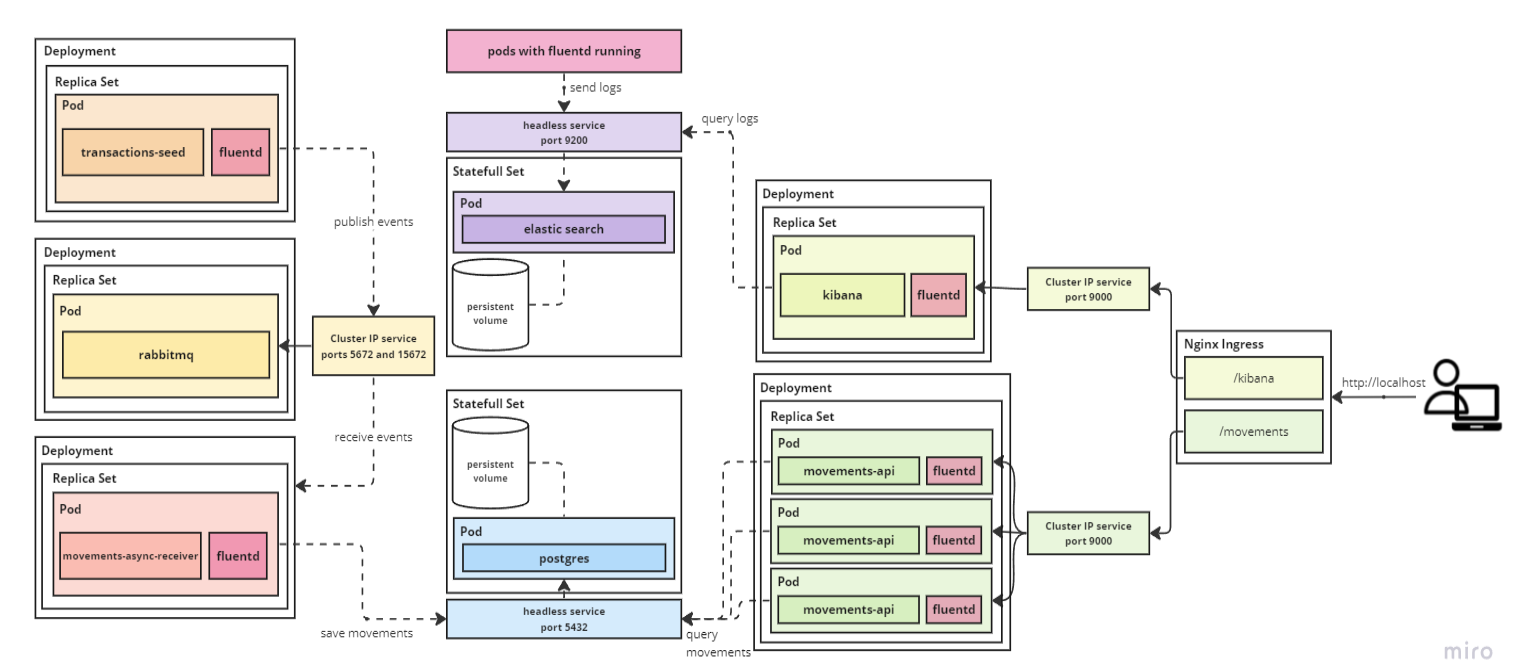
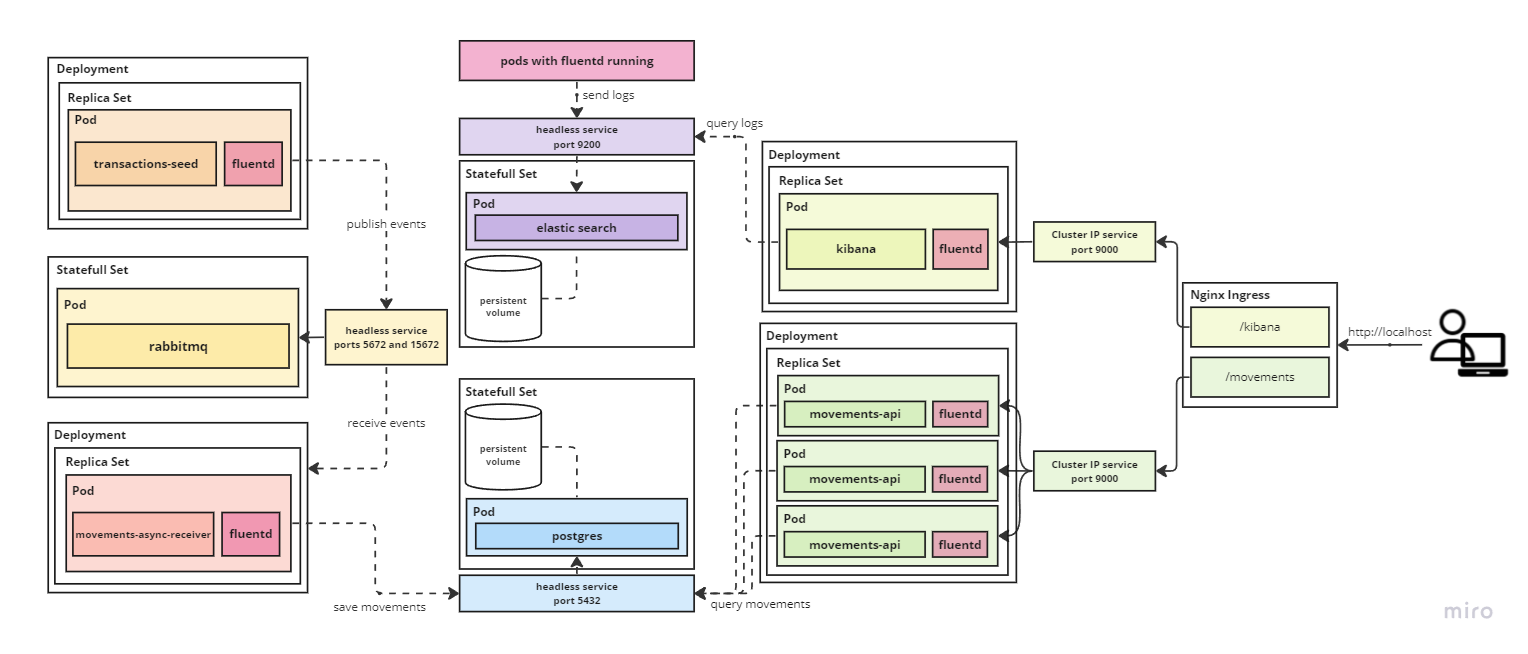
feat: update project files

Changed region(s): [[0.0, 0.0306, 1.0, 0.9786], [0.9535, 0.9174, 0.9843, 0.9786]]

diff --git a/README.md b/README.md
@@ -6,22 +6,31 @@ This project aims to provide an API for retrieving account movements, applying c
 
 Project to expose, through an API, the report of movements from the accounts. Transactions are created by the `Seed` console application and published to a topic in `RabbitMQ`, then read by the `Movements.AsyncReceiver` application, which processes and saves the data in the `PostgreSQL` database. This data is then exposed through the `Movements.Api` at the `/report/{{accountId}}` endpoint.
 
-### How to run on Kubernetes using docker-desktop
+### Setup in docker-desktop
 
 1 - execute script [`run.sh`](run.sh) to create all required resources
    ```bash
-   # use parameter --build-push to build and push docker images
+   # use parameter --build-push to build and push docker images to docker hub
    ./run.sh # --build-push
    ```
 
 2 - Access movements public API 
-   - [Swagger API docs movements](http://localhost/movements/swagger)
-   - [Example get movements report for account 123456-78](http://localhost/movements/v1/report/123456-78)
+   - Docs movements API - Swagger
+     ```bash
+     http://localhost/movements/swagger
+     ```
+   - Get movements report for account 123456-78
+     ```bash
+     curl http://localhost/movements/v1/report/123456-78
+     ```
 
-3 - Logs in kibana
-   - [Local Kibana address](http://localhost/kibana)
+3 - Access logs in kibana
+   - Local Kibana address
+     ```bash
+     http://localhost/kibana
+     ```
    - Configuring index pattern for see logs:
-       1. [Access](http://localhost/kibana/app/management/kibana/indexPatterns)
+       1. [Index patterns page](http://localhost/kibana/app/management/kibana/indexPatterns)
        2. Create data view
        3. Name: fluentd-logs
        4. Create data view button
@@ -30,6 +39,18 @@ Project to expose, through an API, the report of movements from the accounts. Tr
    ```bash
    ./clean-up.sh
    ```
+
+### Architecture
+
+- **transactions-seed**: Responsible for reading fake data about transactions from a JSON file and then publishing data to a topic
+- **movements-async-receiver**: Responsible for reading events from a queue attached to the topic and saving these movements in a PostgreSQL database
+- **movements-api**: REST API responsible for exposing reports of account movements for an account
+- **nginx ingress**:  Responsible for redirecting traffic to the right locations
+- **fluentd**: Responsible for tailing log files and sending them to Elasticsearch
+- **kibana**: Interface responsible for querying and visualizing logs in Elasticsearch
+
+![architecture](docs/architecture.png)
+
 ### Technologies
 
 - `C#` was used as the language with `.net 6`, following some of the concepts of `clean architecture`. For `unit tests`, `xunit` and `moq` were used.
@@ -39,8 +60,5 @@ Project to expose, through an API, the report of movements from the accounts. Tr
 - `Fluentd` was used for log aggregation, sending the logs to `Elastic Search`.
 - `Kibana` was used for log visualization.
 - `GitHub Actions` were used for `CI` while the application was being developed, built, and tested on each push.
-
-### Architecture
-
-![architecture](docs/architecture.png)
+- `Kubernetes` was used to deploy and host all components
 
